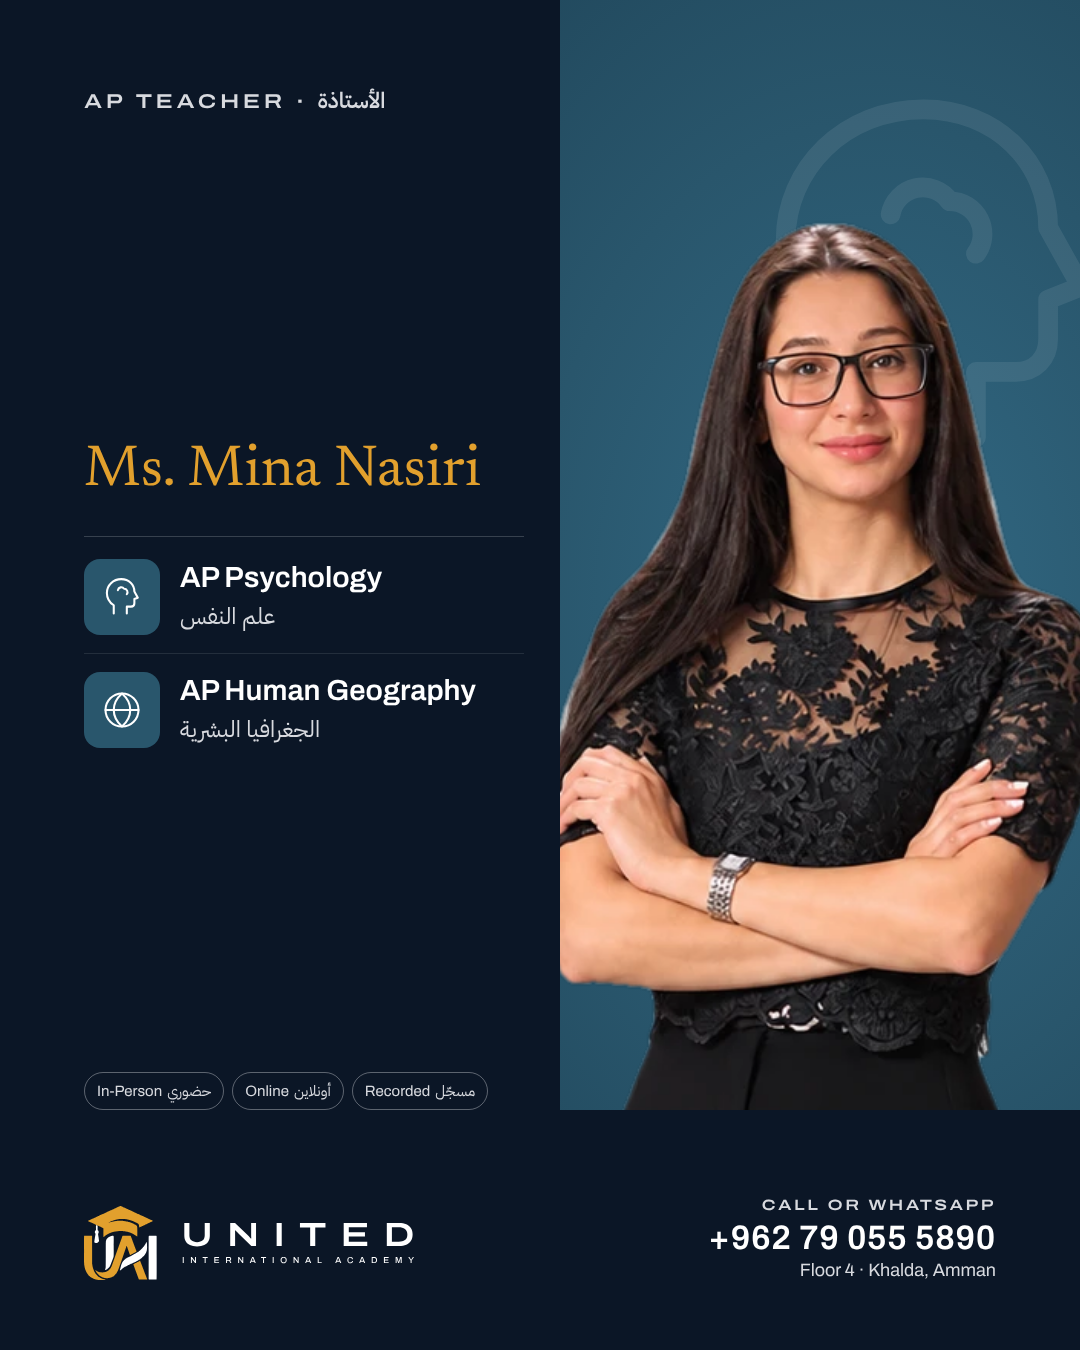
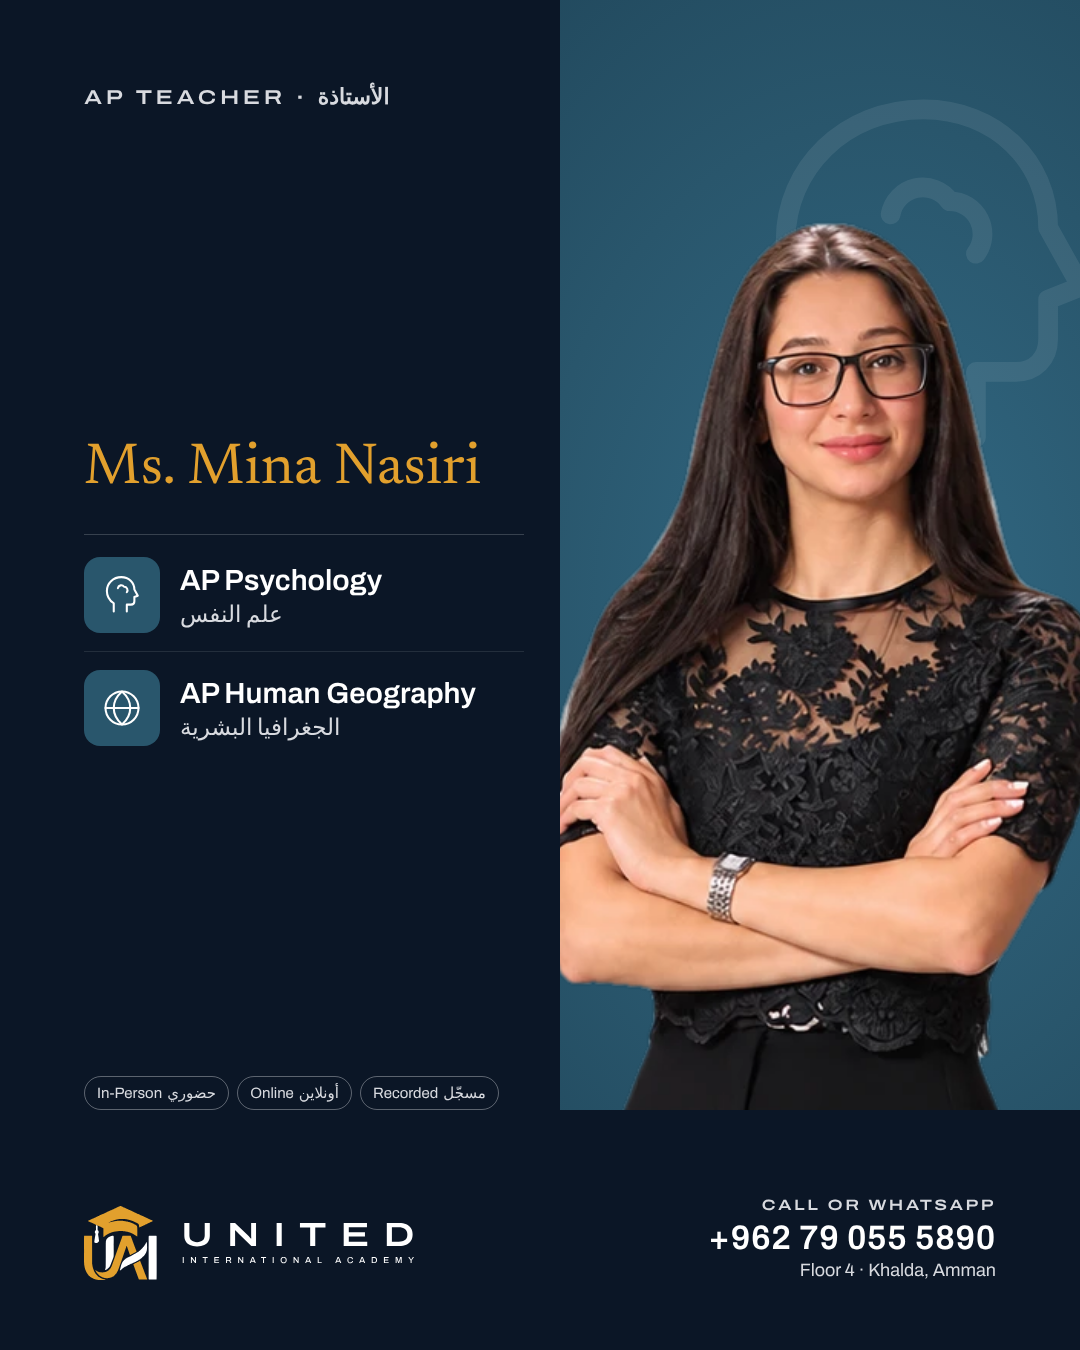
Lens: SAT Hint series (01-03) + captions; Arabic/Latin font fallback fix
Claude-Session: https://claude.ai/code/session_013Nk38vjPosMKdibboCdVbm

diff --git a/Company/01_Tools/brand_assets/sat_hints.js b/Company/01_Tools/brand_assets/sat_hints.js
@@ -1,0 +1,92 @@
+// "SAT Hint" series: one practical, accurate Digital SAT tip per post (1080x1350), light Paper template.
+// Tips rely only on the official test format (no-penalty scoring, built-in Desmos, one question per R&W passage, Bluebook tools).
+// Usage: NODE_PATH=$(npm root -g) node sat_hints.js
+const { chromium } = require('playwright');
+const fs = require('fs');
+const os = require('os');
+const path = require('path');
+
+const BRAND = path.resolve(__dirname, '../../03_Assets/Brand');
+const OUT = path.resolve(__dirname, '../../03_Assets/Posts/2026-10_SAT_hints');
+const LOGO = fs.readFileSync(path.join(BRAND, 'Logo/SVG/uia-logo-horizontal-full-colour.svg'), 'utf8').replace(/<title>.*?<\/title>/, '');
+
+const HINTS = [
+  { n: '01', area: 'Whole test', areaAr: 'كل الامتحان',
+    en: 'Never leave a question blank.', ar: 'لا تترك أي سؤال بدون إجابة.',
+    why: 'The SAT has no penalty for wrong answers. A blank scores nothing; a smart guess might score.',
+    whyAr: 'ما في خصم على الإجابة الغلط. السؤال الفاضي علامته صفر، والتخمين الذكي ممكن يجيب علامة.',
+    pro: 'Stuck? Eliminate what you can, pick an answer, flag it in Bluebook, and come back if time allows.',
+    proAr: 'علقت؟ استبعد الخيارات الغلط، اختار إجابة، علّم السؤال بـ Bluebook، وارجعله إذا ضل وقت.' },
+  { n: '02', area: 'Math', areaAr: 'الرياضيات',
+    en: 'Let Desmos do the heavy lifting.', ar: 'خلّي Desmos يشتغل عنك.',
+    why: 'The Desmos graphing calculator is built into every Math question. Graphing is often faster than solving by hand.',
+    whyAr: 'آلة Desmos موجودة داخل الامتحان بكل أسئلة الرياضيات، والرسم أحياناً أسرع من الحل اليدوي.',
+    pro: 'Type each side of an equation as its own graph. Where they cross is your solution.',
+    proAr: 'اكتب كل طرف من المعادلة كرسم لحاله. نقطة التقاطع هي الحل.' },
+  { n: '03', area: 'Reading and Writing', areaAr: 'القراءة والكتابة',
+    en: 'Read the question before the passage.', ar: 'اقرأ السؤال قبل النص.',
+    why: 'Every Reading and Writing question has its own short passage. Knowing the task first tells you what to look for.',
+    whyAr: 'كل سؤال بالقراءة والكتابة إله نص قصير خاص فيه. لما تعرف المطلوب أول، بتعرف شو تدوّر.',
+    pro: 'Spot the task (main idea, evidence, grammar, transition), then read the passage with that one goal.',
+    proAr: 'حدّد نوع السؤال (فكرة رئيسية، دليل، قواعد، ربط)، وبعدين اقرأ النص وإنت عارف هدفك.' },
+];
+
+const page = (h) => `<!doctype html><html><head><meta charset="utf-8"><style>
+@font-face{font-family:'A';font-weight:400;src:url('file://${BRAND}/Fonts/static/Archivo-Regular.ttf')}
+@font-face{font-family:'A';font-weight:600;src:url('file://${BRAND}/Fonts/static/Archivo-SemiBold.ttf')}
+@font-face{font-family:'AW';font-weight:600;src:url('file://${BRAND}/Fonts/static/Archivo-SemiBoldExpanded.ttf')}
+@font-face{font-family:'N';font-style:normal;src:url('file://${BRAND}/Fonts/Newsreader-normal-400-latin.woff2')}
+@font-face{font-family:'AR','A';font-weight:400;src:url('file://${BRAND}/Fonts/IBMPlexSansArabic-normal-400-arabic.woff2')}
+@font-face{font-family:'AR','A';font-weight:600;src:url('file://${BRAND}/Fonts/IBMPlexSansArabic-normal-600-arabic.woff2')}
+*{margin:0;padding:0;box-sizing:border-box}
+body{width:1080px;height:1350px;background:#F5F4F0;color:#0B1626;font-family:'A',sans-serif;overflow:hidden;position:relative}
+.pad{position:absolute;inset:80px 84px 70px;display:flex;flex-direction:column}
+.top{display:flex;justify-content:space-between;align-items:center}
+.label{font-family:'AW';font-weight:600;letter-spacing:.18em;text-transform:uppercase;font-size:20px;color:#29566C}
+.label .ar{font-family:'AR','A';letter-spacing:0;font-size:22px}
+.area{font-size:19px;color:#26292E;border:1.5px solid #D8DADF;border-radius:999px;padding:8px 18px;background:#fff}
+.area .ar{font-family:'AR','A';margin-left:8px;color:#29566C}
+.num{font-family:'N';font-size:200px;line-height:.9;color:#E2A02D;margin-top:40px;letter-spacing:-.02em}
+h1{font-family:'N',serif;font-weight:400;font-size:80px;line-height:1.04;margin-top:14px;max-width:880px;text-wrap:balance}
+.arh{font-family:'AR','A';font-weight:600;font-size:44px;direction:rtl;text-align:right;margin-top:18px;color:#29566C}
+.why{display:grid;grid-template-columns:1fr 1fr;gap:34px;margin-top:40px;padding-top:30px;border-top:1.5px solid #D8DADF}
+.why .k{font-family:'AW';font-weight:600;letter-spacing:.16em;font-size:15px;color:#29566C;margin-bottom:10px}
+.why p{font-size:25px;line-height:1.42;color:#26292E}
+.why .rtl{direction:rtl;text-align:right}
+.why .rtl p{font-family:'AR','A';font-size:25px;line-height:1.6}
+.pro{margin-top:auto;background:#0B1626;color:#fff;border-radius:22px;padding:30px 34px}
+.pro .k{font-family:'AW';font-weight:600;letter-spacing:.16em;font-size:15px;color:#D8DADF}
+.pro .k .ar{font-family:'AR','A';letter-spacing:0;font-size:18px}
+.pro p{font-size:27px;line-height:1.38;margin-top:10px}
+.pro .par{font-family:'AR','A';direction:rtl;text-align:right;font-size:25px;line-height:1.55;color:#D8DADF;margin-top:12px}
+.foot{display:flex;justify-content:space-between;align-items:flex-end;margin-top:34px}
+.logo{width:300px}.logo svg{width:100%;height:auto;display:block}
+.contact{text-align:right}
+.contact .l{font-family:'AW';font-weight:600;letter-spacing:.16em;font-size:14px;color:#29566C;text-transform:uppercase}
+.contact .n{font-weight:600;font-size:32px;margin-top:6px}
+</style></head><body><div class="pad">
+  <div class="top"><div class="label">SAT hint · <span class="ar" dir="rtl" style="unicode-bidi:isolate">نصيحة SAT</span></div><div class="area">${h.area}<span class="ar">${h.areaAr}</span></div></div>
+  <div class="num">${h.n}</div>
+  <h1>${h.en}</h1>
+  <div class="arh">${h.ar}</div>
+  <div class="why"><div><div class="k">WHY IT WORKS</div><p>${h.why}</p></div><div class="rtl"><div class="k" style="font-family:'AR','A';letter-spacing:0;font-size:18px">ليش بتنفع؟</div><p>${h.whyAr}</p></div></div>
+  <div class="pro"><div class="k">PRO MOVE · <span class="ar" dir="rtl" style="unicode-bidi:isolate">جرّبها</span></div><p>${h.pro}</p><div class="par">${h.proAr}</div></div>
+  <div class="foot"><div class="logo">${LOGO}</div><div class="contact"><div class="l">Digital SAT prep · Call or WhatsApp</div><div class="n">+962 79 055 5890</div></div></div>
+</div></body></html>`;
+
+(async () => {
+  fs.mkdirSync(OUT, { recursive: true });
+  const tmp = fs.mkdtempSync(path.join(os.tmpdir(), 'uia-hint-'));
+  const b = await chromium.launch();
+  const p = await b.newPage({ viewport: { width: 1080, height: 1350 } });
+  for (const h of HINTS) {
+    fs.writeFileSync(path.join(tmp, 'h.html'), page(h));
+    await p.goto('file://' + path.join(tmp, 'h.html'));
+    await p.evaluate(() => document.fonts.ready);
+    const over = await p.evaluate(() => { const e = document.querySelector('.pad'); return e.scrollHeight - e.clientHeight; });
+    if (over > 0) console.warn(`hint ${h.n}: overflows by ${over}px`);
+    await p.screenshot({ path: path.join(OUT, `UIA_SAT-hint-${h.n}_1080x1350.png`) });
+  }
+  await b.close();
+  console.log('written to', OUT);
+})();

diff --git a/Company/01_Tools/brand_assets/ap_campaign.js b/Company/01_Tools/brand_assets/ap_campaign.js
@@ -69,8 +69,8 @@ const CSS = `
 @font-face{font-family:'AW';font-weight:600;src:url('file://${BRAND}/Fonts/static/Archivo-SemiBoldExpanded.ttf')}
 @font-face{font-family:'N';font-style:normal;src:url('file://${BRAND}/Fonts/Newsreader-normal-400-latin.woff2')}
 @font-face{font-family:'N';font-style:italic;src:url('file://${BRAND}/Fonts/Newsreader-italic-400-latin.woff2')}
-@font-face{font-family:'AR';font-weight:400;src:url('file://${BRAND}/Fonts/IBMPlexSansArabic-normal-400-arabic.woff2')}
-@font-face{font-family:'AR';font-weight:600;src:url('file://${BRAND}/Fonts/IBMPlexSansArabic-normal-600-arabic.woff2')}
+@font-face{font-family:'AR','A';font-weight:400;src:url('file://${BRAND}/Fonts/IBMPlexSansArabic-normal-400-arabic.woff2')}
+@font-face{font-family:'AR','A';font-weight:600;src:url('file://${BRAND}/Fonts/IBMPlexSansArabic-normal-600-arabic.woff2')}
 *{margin:0;padding:0;box-sizing:border-box}
 body{width:1080px;height:1350px;background:#0B1626;color:#fff;font-family:'A',sans-serif;overflow:hidden;position:relative}
 .bg{position:absolute;right:-170px;bottom:200px;width:560px;height:560px;color:#29566C;opacity:.3}
@@ -78,7 +78,7 @@ body{width:1080px;height:1350px;background:#0B1626;color:#fff;font-family:'A',sa
 .bg svg{width:100%;height:100%}
 .pad{position:absolute;inset:84px;display:flex;flex-direction:column}
 .label{font-family:'AW';font-weight:600;letter-spacing:.18em;text-transform:uppercase;font-size:20px;color:#D8DADF}
-.label .ar{font-family:'AR';letter-spacing:0;text-transform:none;font-size:22px}
+.label .ar{font-family:'AR','A';letter-spacing:0;text-transform:none;font-size:22px}
 .name{font-family:'N',serif;font-size:96px;line-height:1.02;color:#E2A02D;margin-top:22px;max-width:860px}
 .photo{width:250px;height:250px;border-radius:50%;object-fit:cover;border:3px solid #29566C;margin-top:30px}
 .hair{height:1.5px;background:rgba(216,218,223,.22);margin:44px 0 6px}
@@ -87,10 +87,10 @@ body{width:1080px;height:1350px;background:#0B1626;color:#fff;font-family:'A',sa
 .tile{flex:none;width:120px;height:120px;border-radius:24px;background:#29566C;color:#fff;display:flex;align-items:center;justify-content:center}
 .tile svg{width:68px;height:68px}
 .en{font-weight:600;font-size:46px;line-height:1.1}
-.arsub{font-family:'AR';font-weight:400;font-size:31px;color:#D8DADF;direction:rtl;text-align:left;margin-top:6px}
+.arsub{font-family:'AR','A';font-weight:400;font-size:31px;color:#D8DADF;direction:rtl;text-align:left;margin-top:6px}
 .modes{display:flex;gap:12px;align-items:center}
 .chip{border:1.5px solid rgba(216,218,223,.4);border-radius:999px;padding:9px 20px;font-size:21px;color:#D8DADF}
-.chip .ar{font-family:'AR';margin-left:8px}
+.chip .ar{font-family:'AR','A';margin-left:8px}
 .foot{display:flex;justify-content:space-between;align-items:flex-end;margin-top:40px;padding-top:30px;border-top:1.5px solid rgba(216,218,223,.22)}
 .logo{width:330px}.logo svg{width:100%;height:auto;display:block}
 .contact{text-align:right}
@@ -153,7 +153,7 @@ const introPage = () => {
   return `<div class="pad">
   <div class="label">AP courses · <span class="ar">دورات AP</span></div>
   <div class="mid"><div class="name" style="color:#fff;font-size:84px;margin-top:0">Advanced Placement<br><span style="font-style:italic;color:#E2A02D">with our AP teachers.</span></div>
-  <div style="font-family:'AR';font-weight:600;font-size:36px;direction:rtl;text-align:left;margin-top:18px">دورات AP مع نفس الأساتذة، باسمنا الجديد</div>
+  <div style="font-family:'AR','A';font-weight:600;font-size:36px;direction:rtl;text-align:left;margin-top:18px">دورات AP مع نفس الأساتذة، باسمنا الجديد</div>
   <div class="hair" style="margin:34px 0 22px"></div>
   <div style="display:grid;grid-template-columns:1fr 1fr;gap:18px 30px">
   ${all.map((k) => `<div style="display:flex;align-items:center;gap:16px"><div class="tile" style="width:60px;height:60px;border-radius:14px"><svg viewBox="0 0 64 64" fill="none" stroke="currentColor" stroke-width="3.6" stroke-linecap="round" stroke-linejoin="round" style="width:34px;height:34px">${ICON[k]}</svg></div><div style="font-weight:600;font-size:26px;line-height:1.15">${SUBJECT[k][0].replace(' and Composition', '')}</div></div>`).join('')}

diff --git a/Company/01_Tools/brand_assets/sat_post.js b/Company/01_Tools/brand_assets/sat_post.js
@@ -26,20 +26,20 @@ const css = (story) => `
 @font-face{font-family:'AW';font-weight:600;src:url('file://${BRAND}/Fonts/static/Archivo-SemiBoldExpanded.ttf')}
 @font-face{font-family:'N';font-style:normal;src:url('file://${BRAND}/Fonts/Newsreader-normal-400-latin.woff2')}
 @font-face{font-family:'N';font-style:italic;src:url('file://${BRAND}/Fonts/Newsreader-italic-400-latin.woff2')}
-@font-face{font-family:'AR';font-weight:400;src:url('file://${BRAND}/Fonts/IBMPlexSansArabic-normal-400-arabic.woff2')}
-@font-face{font-family:'AR';font-weight:600;src:url('file://${BRAND}/Fonts/IBMPlexSansArabic-normal-600-arabic.woff2')}
+@font-face{font-family:'AR','A';font-weight:400;src:url('file://${BRAND}/Fonts/IBMPlexSansArabic-normal-400-arabic.woff2')}
+@font-face{font-family:'AR','A';font-weight:600;src:url('file://${BRAND}/Fonts/IBMPlexSansArabic-normal-600-arabic.woff2')}
 *{margin:0;padding:0;box-sizing:border-box}
 body{width:1080px;height:${story ? 1920 : 1350}px;background:#0B1626;color:#fff;font-family:'A',sans-serif;overflow:hidden;position:relative}
 .pad{position:absolute;left:84px;right:84px;top:${story ? 230 : 76}px;bottom:${story ? 300 : 70}px;display:flex;flex-direction:column}
 .label{font-family:'AW';font-weight:600;letter-spacing:.18em;text-transform:uppercase;font-size:20px;color:#D8DADF}
-.label .ar{font-family:'AR';letter-spacing:0;font-size:22px}
+.label .ar{font-family:'AR','A';letter-spacing:0;font-size:22px}
 h1{font-family:'N',serif;font-weight:400;font-size:70px;line-height:1.06;margin-top:16px}
 h1 em{color:#E2A02D}
-.sub{font-family:'AR';font-weight:600;font-size:${story ? 34 : 30}px;direction:rtl;text-align:left;margin-top:12px;color:#D8DADF}
+.sub{font-family:'AR','A';font-weight:600;font-size:${story ? 34 : 30}px;direction:rtl;text-align:left;margin-top:12px;color:#D8DADF}
 .sect{margin-top:${story ? 40 : 28}px;display:grid;grid-template-columns:1fr;gap:${story ? 22 : 16}px}
 .row{display:grid;grid-template-columns:286px 190px 1fr;align-items:center;gap:0;border-top:1.5px solid rgba(216,218,223,.18);padding-top:${story ? 20 : 14}px}
 .sname{font-weight:600;font-size:28px;line-height:1.15}
-.sname .ar{display:block;font-family:'AR';font-weight:400;font-size:22px;color:#D8DADF;margin-top:4px}
+.sname .ar{display:block;font-family:'AR','A';font-weight:400;font-size:22px;color:#D8DADF;margin-top:4px}
 .sname .q{display:block;font-size:16px;color:#8fa6b3;margin-top:8px;font-weight:400}
 .m1{height:104px;border-radius:16px;background:#29566C;display:flex;flex-direction:column;align-items:center;justify-content:center}
 .m .t{font-family:'AW';font-weight:600;font-size:14px;letter-spacing:.16em;color:#D8DADF}
@@ -77,7 +77,7 @@ const body = (story) => `<div class="pad">
     <div class="m m1"><div class="t">MODULE 1</div><div class="v">Everyone</div></div>
     <div class="branch">${branchSvg}<div class="m m2 hi"><span class="t">MODULE 2</span><span class="v">Harder</span></div><div class="m m2 lo"><span class="t">MODULE 2</span><span class="v">Easier</span></div></div>
   </div>`).join('')}</div>
-  <div style="font-size:18px;color:#8fa6b3;margin-top:14px">How you do in Module 1 decides which Module 2 you get.</div><div dir="rtl" style="font-family:'AR';font-size:19px;color:#8fa6b3;margin-top:4px;text-align:right">أداءك بالجزء الأول بيحدّد مستوى الجزء الثاني.</div>
+  <div style="font-size:18px;color:#8fa6b3;margin-top:14px">How you do in Module 1 decides which Module 2 you get.</div><div dir="rtl" style="font-family:'AR','A';font-size:19px;color:#8fa6b3;margin-top:4px;text-align:right">أداءك بالجزء الأول بيحدّد مستوى الجزء الثاني.</div>
   <div class="facts">
     <div class="fact"><div class="k">400–1600</div><div class="d">Total score<br>(200–800 per section)</div></div>
     <div class="fact"><div class="k">2 h 14 min</div><div class="d">Testing time,<br>plus a short break</div></div>

diff --git a/Company/00_Activity_Logs/lens.md b/Company/00_Activity_Logs/lens.md
@@ -53,3 +53,4 @@
 - Done (9 Oct, later): teacher photos added to the AP campaign (9 originals → local rembg cut-outs, edge clean-up, same framing on a brand panel; Bakheet scan lightly enhanced; Mina/Sara cropped to upper body). New zip delivered.
 - Done (9 Oct, later): added Mr. Emad Dweik (عماد دويك; AP Calculus + AP Precalculus; English spelling to confirm) → 11 posts; portrait-model cut-out to remove the chair; zip rebuilt.
 - Done (9 Oct, later): 'Digital SAT, decoded' post + story + caption (`03_Assets/Posts/2026-10_SAT_decoded/`), generator `sat_post.js`.
+- Done (9 Oct, later): 'SAT Hint' series 01–03 (light Paper template, `03_Assets/Posts/2026-10_SAT_hints/`, generator `sat_hints.js`) + captions. Fixed Latin-in-Arabic font fallback in sat/AP generators; AP zip rebuilt.
